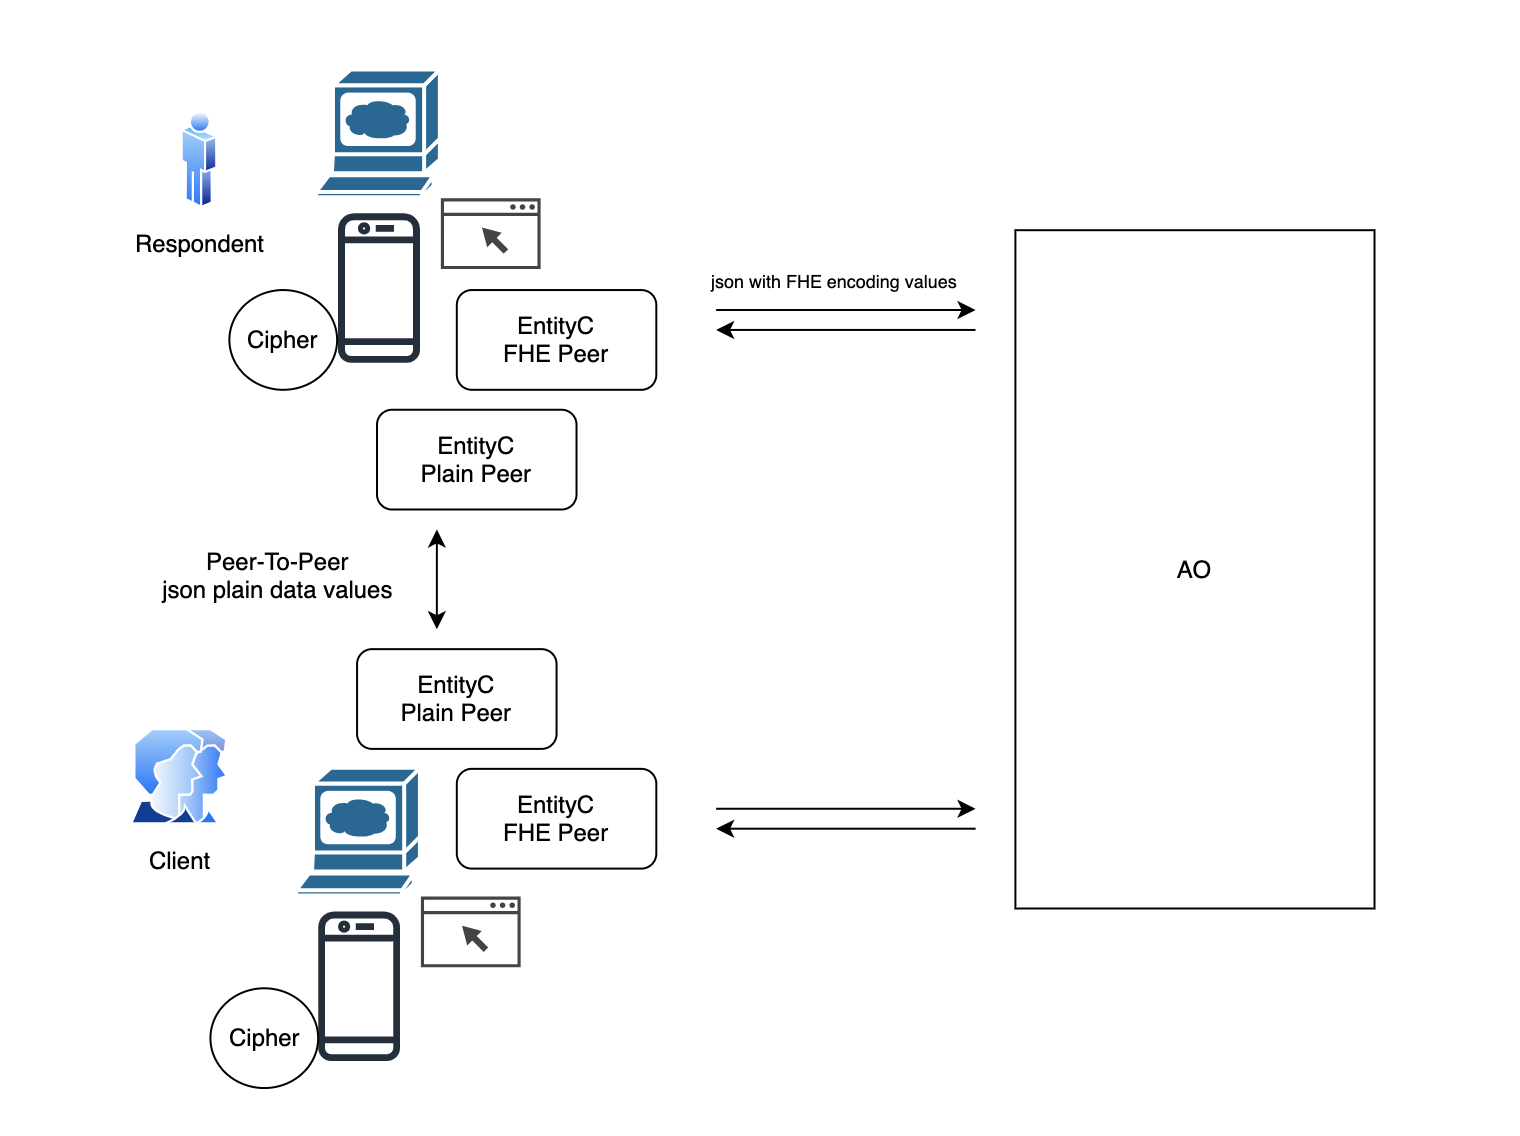
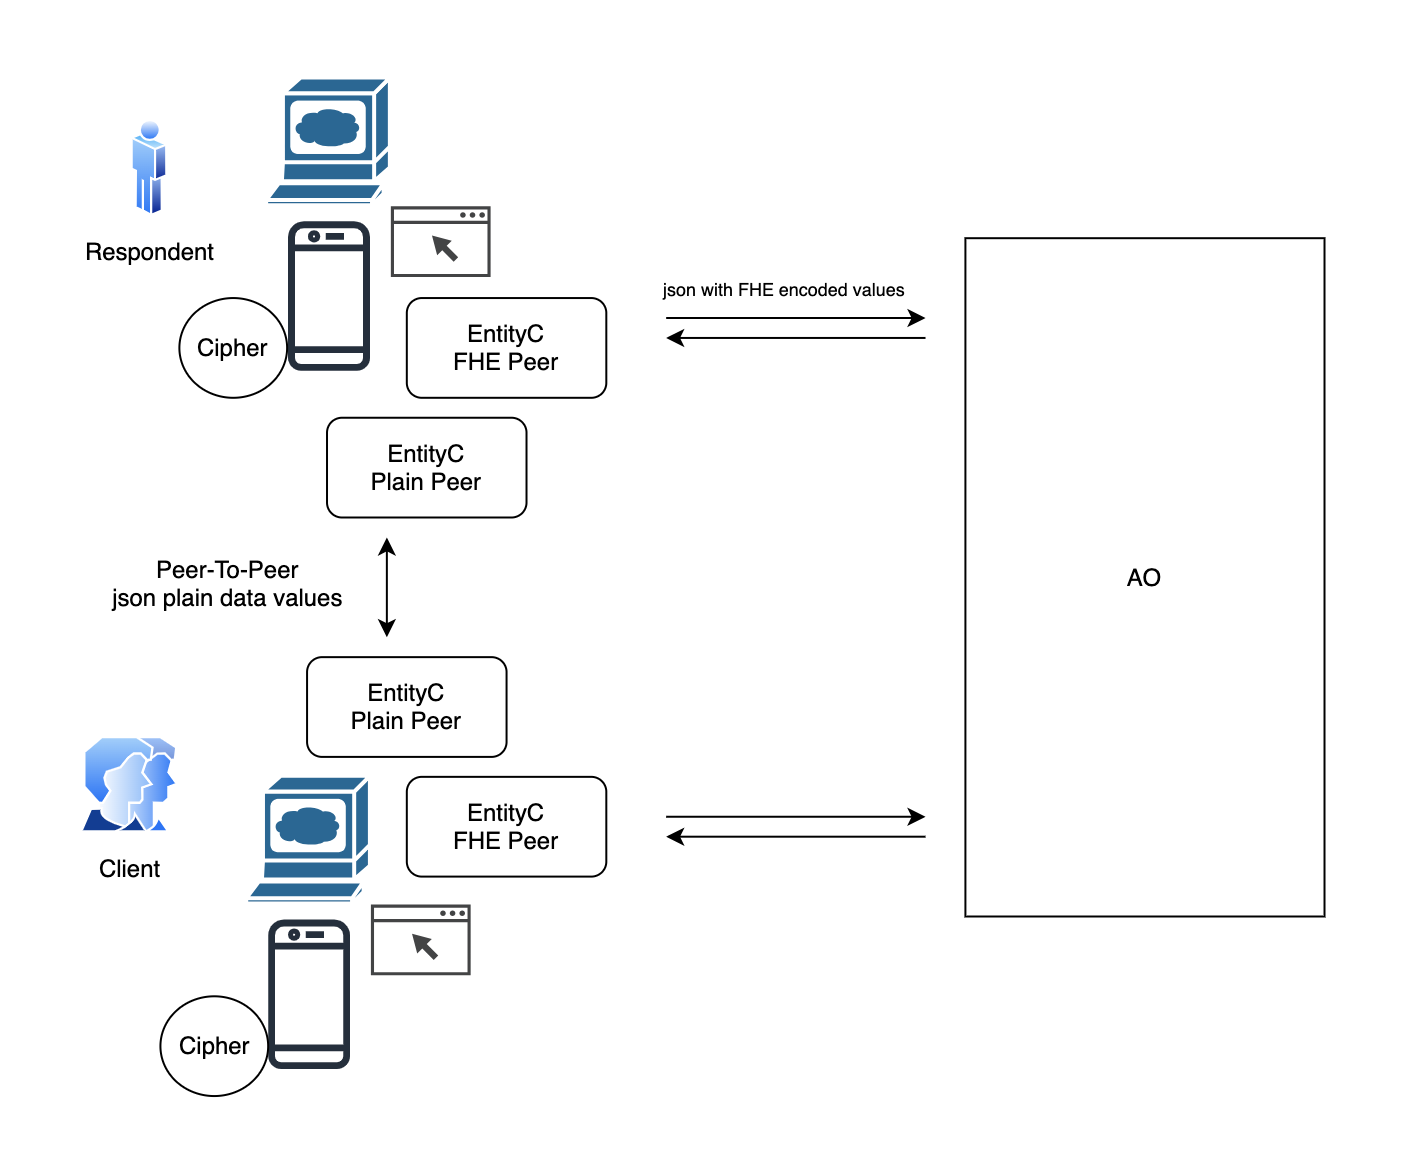
FHE Peer To Peer Data Exchange - EOC Survey Protocol v 0.0.1 reviewed

diff --git a/documentation/FHE Peer To Peer Data Exchange - EOC Survey Protocol.md b/documentation/FHE Peer To Peer Data Exchange - EOC Survey Protocol.md
@@ -1,10 +1,18 @@
+---
+title: EOCP2P
+description: FHE Peer To Peer Data Exchange - EOC Survey Protocol
+author: Gavianu (@gavianu)
+status: Draft
+date: 2024-06-26
+---
+
 # FHE Peer To Peer Data Exchange - EOC Survey Protocol
 
 #### Version: 0.0.1
 
 ### Abstract
 
-This document outlines a protocol where each user retains ownership of their data. Users store their data on the Permaweb Arweave network, encrypted with their own Fully Homomorphic Encryption (FHE) private key. The corresponding public key, which can be used for computation, is also stored within the data block.
+The EOC Survey Protocol defines a system where users maintain sole ownership of their data. Users store their data on the Permaweb Arweave network, encrypted with their own Fully Homomorphic Encryption (FHE) private key. The corresponding public key, which can be used for computation, is also stored within the data block.
 
 When a user requests a business engagement, other users involved are notified. Once a connection between the parties is established, the target data is securely transferred via a peer-to-peer (P2P) channel in plain text. The receiver then processes this data using their own FHE private key.
 
@@ -30,9 +38,9 @@ The respondent is an individual user account belonging to a private person. The 
 
 #### 1.2 Client
 
-The client is a user account associated with a private company, managed by an individual affiliated with the company. The primary function of the client is to publish survey studies aimed at gathering feedback from targeted groups of respondents.
+The client is a user account, managed by an individual affiliated with private person or an organization. The primary function of the client is to publish survey studies aimed at gathering feedback from targeted groups of respondents.
 
-### 2. Use cases
+### 2. Survey Lifecycle Functions
 
 #### 2.1 Publish survey data
 
@@ -44,8 +52,12 @@ Once a client publishes a survey for feedback, all online respondents are notifi
 
 #### 2.2 Request survey
 
-If a respondent matches the survey target group, they can request the survey from the client. The client will transfer the survey data to the respondent via a secure P2P channel. The respondent will own the survey data requested for feedback and store it as a Permaweb Arweave network block, encrypted with their own Fully Homomorphic Encryption (FHE) private key.
+If a respondent matches the survey target group, they can request the survey from the client. The client will transfer the survey data to the respondent via a secure P2P channel. The respondent will own the survey data requested for feedback and store it as a Permaweb Arweave network transaction, encrypted with their own Fully Homomorphic Encryption (FHE) private key.
 
 #### 2.3 Send survey feedback
 
 When a respondent decides they are ready to submit the survey results, they will establish a secure P2P channel to send the data to the client.
+
+## License
+
+This repository is license under Apache License v2.0 <http://www.apache.org/licenses/LICENSE-2.0.html>
